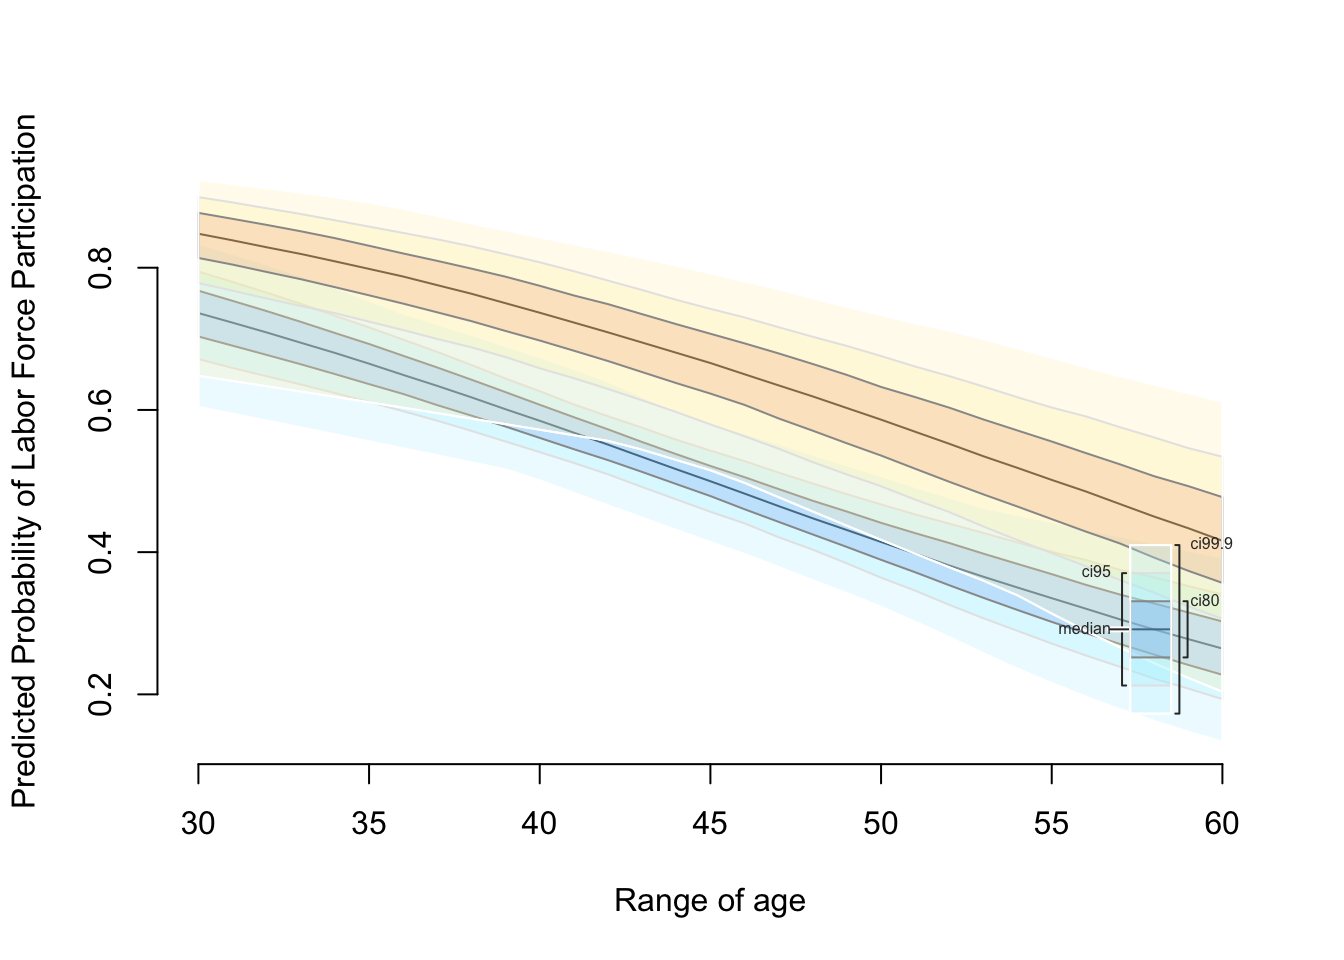
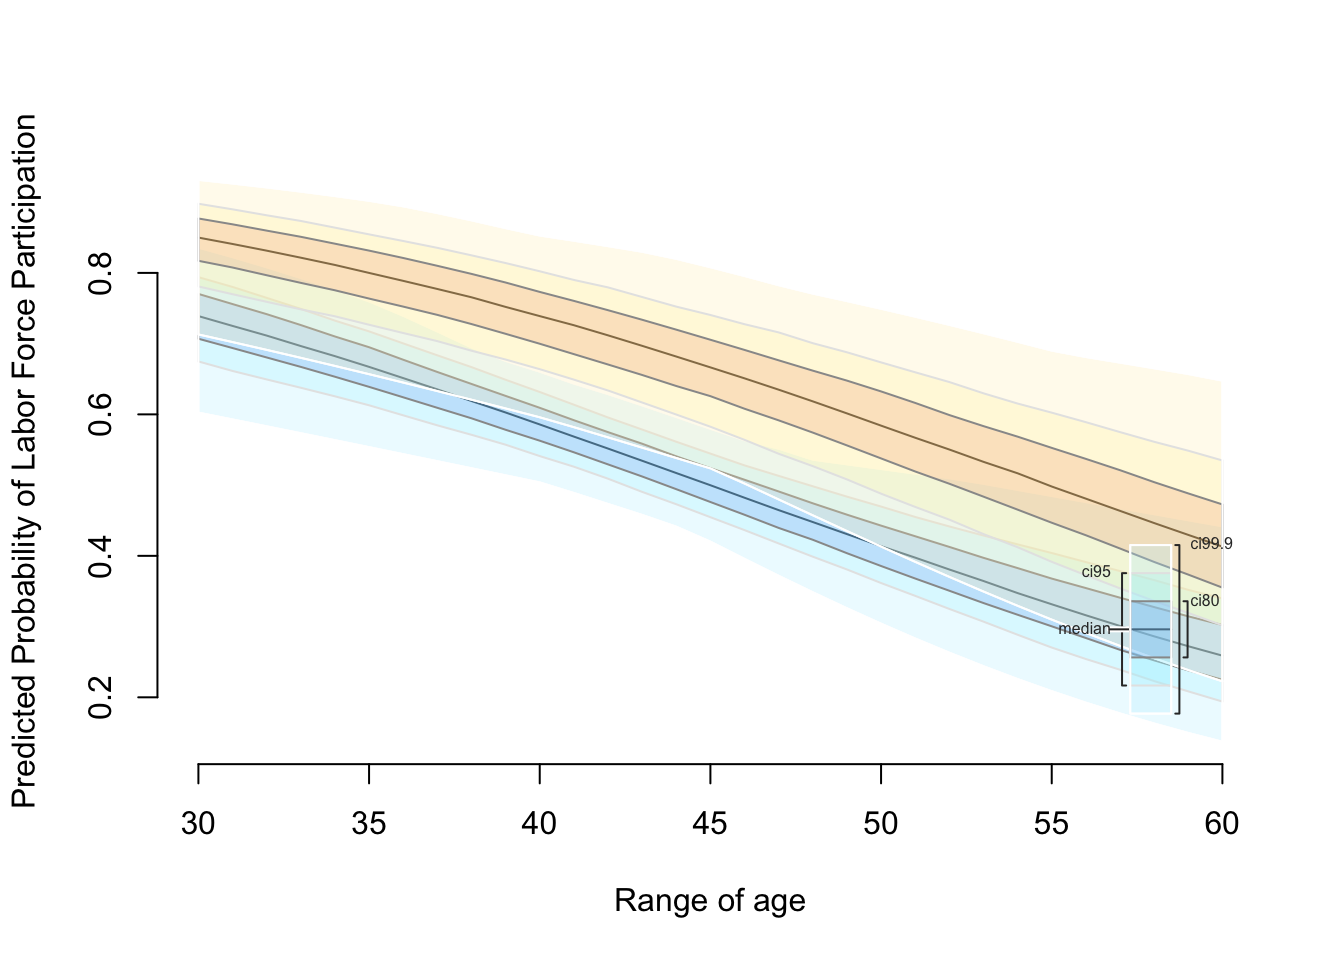
Minor edits on Try Zelig

diff --git a/content/post/zelig.html b/content/post/zelig.html
@@ -18,7 +18,8 @@ bibliography: references.bib
 <pre class="r"><code>library(Zelig)
 library(texreg) #for html table
 df &lt;- car::Mroz
-logit_zelig &lt;- zelig(lfp ~ k5 + k618 + age + wc + hc + lwg, data=df, model = &quot;logit&quot;, cite=FALSE)
+logit_zelig &lt;- zelig(lfp ~ k5 + k618 + age + wc + hc + lwg, 
+                     data=df, model = &quot;logit&quot;, cite=FALSE)
 summary(logit_zelig, odds_ratio=TRUE)</code></pre>
 <pre><code>## Model: 
 ## 
@@ -58,23 +59,23 @@ summary(sim_logit_zelig)</code></pre>
 ##  sim x :
 ##  -----
 ## ev
-##           mean         sd      50%      2.5%     97.5%
-## [1,] 0.5429624 0.02571747 0.543434 0.4913509 0.5904804
+##           mean         sd       50%      2.5%     97.5%
+## [1,] 0.5441929 0.02694752 0.5440302 0.4882263 0.5931694
 ## pv
 ##          0     1
-## [1,] 0.448 0.552
+## [1,] 0.444 0.556
 ## 
 ##  sim x1 :
 ##  -----
 ## ev
 ##           mean         sd       50%      2.5%     97.5%
-## [1,] 0.6996344 0.04668068 0.7005627 0.6038686 0.7866868
+## [1,] 0.7030757 0.04743413 0.7058541 0.6037537 0.7875714
 ## pv
 ##          0     1
-## [1,] 0.289 0.711
+## [1,] 0.291 0.709
 ## fd
-##          mean         sd      50%       2.5%     97.5%
-## [1,] 0.156672 0.04593399 0.156279 0.06684061 0.2465824</code></pre>
+##           mean         sd       50%       2.5%    97.5%
+## [1,] 0.1588828 0.04710069 0.1616188 0.05959554 0.249382</code></pre>
 <p>Now, we might want to estimate predicted probabilities over the range of a predictor for both levels of <code>wc</code>.</p>
 <pre class="r"><code>logit_zelig &lt;- zelig(lfp ~ k5 + k618 + age + wc + hc + lwg, 
                      data=df, model = &quot;logit&quot;, cite=FALSE)

diff --git a/public/2018/03/13/tryzelig/index.html b/public/2018/03/13/tryzelig/index.html
@@ -59,7 +59,8 @@
 <pre class="r"><code>library(Zelig)
 library(texreg) #for html table
 df &lt;- car::Mroz
-logit_zelig &lt;- zelig(lfp ~ k5 + k618 + age + wc + hc + lwg, data=df, model = &quot;logit&quot;, cite=FALSE)
+logit_zelig &lt;- zelig(lfp ~ k5 + k618 + age + wc + hc + lwg, 
+                     data=df, model = &quot;logit&quot;, cite=FALSE)
 summary(logit_zelig, odds_ratio=TRUE)</code></pre>
 <pre><code>## Model: 
 ## 
@@ -99,23 +100,23 @@ summary(sim_logit_zelig)</code></pre>
 ##  sim x :
 ##  -----
 ## ev
-##           mean         sd      50%      2.5%     97.5%
-## [1,] 0.5429624 0.02571747 0.543434 0.4913509 0.5904804
+##           mean         sd       50%      2.5%     97.5%
+## [1,] 0.5441929 0.02694752 0.5440302 0.4882263 0.5931694
 ## pv
 ##          0     1
-## [1,] 0.448 0.552
+## [1,] 0.444 0.556
 ## 
 ##  sim x1 :
 ##  -----
 ## ev
 ##           mean         sd       50%      2.5%     97.5%
-## [1,] 0.6996344 0.04668068 0.7005627 0.6038686 0.7866868
+## [1,] 0.7030757 0.04743413 0.7058541 0.6037537 0.7875714
 ## pv
 ##          0     1
-## [1,] 0.289 0.711
+## [1,] 0.291 0.709
 ## fd
-##          mean         sd      50%       2.5%     97.5%
-## [1,] 0.156672 0.04593399 0.156279 0.06684061 0.2465824</code></pre>
+##           mean         sd       50%       2.5%    97.5%
+## [1,] 0.1588828 0.04710069 0.1616188 0.05959554 0.249382</code></pre>
 <p>Now, we might want to estimate predicted probabilities over the range of a predictor for both levels of <code>wc</code>.</p>
 <pre class="r"><code>logit_zelig &lt;- zelig(lfp ~ k5 + k618 + age + wc + hc + lwg, 
                      data=df, model = &quot;logit&quot;, cite=FALSE)
